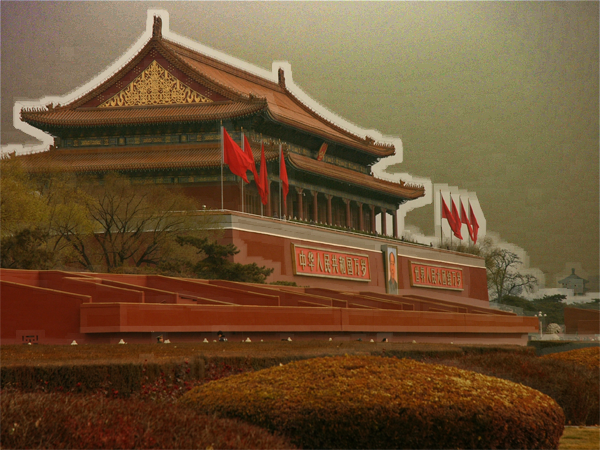
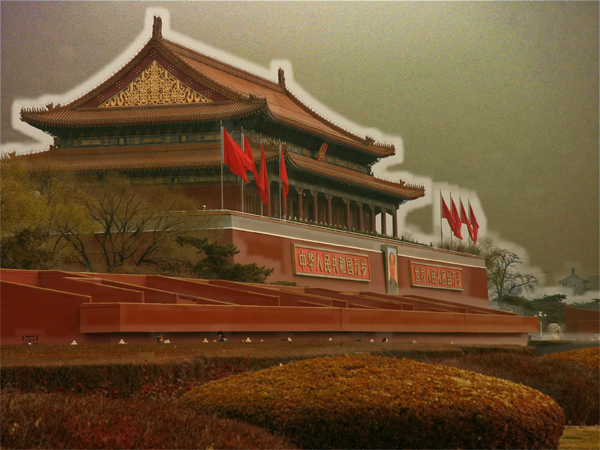
finish sequential transmission smoothing; halos still present

diff --git a/src/seq/main.c b/src/seq/main.c
@@ -6,8 +6,11 @@
 #define MIN(X, Y) (((X) < (Y)) ? (X) : (Y))
 #define MAX(X, Y) (((X) > (Y)) ? (X) : (Y))
 
-// patch for dark channel and transmission
-#define PATCH_SIZE 15
+// patch size for dark channel and transmission
+// higher patch size will improve dark channel accuracy but introduce depth artifacts
+#define DARK_CHANNEL_PATCH_SIZE 15
+// lower patch size will tighten constant transmission assumption but oversaturate colors
+#define TRANSMISSION_PATCH_SIZE 15
 
 // fraction of image size for haze-opaque region
 #define HAZE_OPAQUE_SIZE 0.001
@@ -15,8 +18,14 @@
 // will retain 5% of haze to preserve depth information in dehazed image
 #define HAZE_RETENTION 0.05
 
-// minimum transmission to reduce noise and preserve some haze
+// minimum transmission to reduce noise visibility
 #define MIN_TRANSMISSION 0.1
+
+// window size for transmission smoothing
+#define WINDOW_SIZE 3
+
+// lower threshold for pixel variance will increase edges in smooth transmission
+#define EDGE_VARIANCE 1
 
 // store rgba as floats for precise math
 typedef struct {
@@ -30,7 +39,6 @@ typedef struct {
 typedef struct {
     unsigned int height;
     unsigned int width;
-    // height * width pixels
     pixel_t *pixels;
 } image_t;
 
@@ -154,22 +162,22 @@ void write_image(image_t *image, char *filename) {
 }
 
 // returns the min value across the rgb channels for all pixels in the patch centered at (y, x)
-float find_patch_min(int y, int x, unsigned int height, unsigned int width, pixel_t *pixels) {
+float find_patch_min(int y, int x, image_t *image, int patch_size) {
     float min;
     unsigned int y_min, y_max, x_min, x_max;
     unsigned int i, j;
     pixel_t pixel;
 
-    y_min = MAX(0, y - PATCH_SIZE / 2);
-    x_min = MAX(0, x - PATCH_SIZE / 2);
-    y_max = MIN(height, y + PATCH_SIZE / 2);
-    x_max = MIN(width, x + PATCH_SIZE / 2);
+    y_min = MAX(0, y - patch_size / 2);
+    x_min = MAX(0, x - patch_size / 2);
+    y_max = MIN(image->height, y + patch_size / 2 + 1);
+    x_max = MIN(image->width, x + patch_size / 2 + 1);
 
     // min across patch
-    min = pixels[y_min * width + x_min].r;
+    min = image->pixels[y_min * image->width + x_min].r;
     for (i = y_min; i < y_max; i++) {
         for (j = x_min; j < x_max; j++) {
-            pixel = pixels[i * width + j];
+            pixel = image->pixels[i * image->width + j];
             min = MIN(min, MIN(pixel.r, MIN(pixel.g, pixel.b)));
         }
     }
@@ -179,7 +187,7 @@ float find_patch_min(int y, int x, unsigned int height, unsigned int width, pixe
 }
 
 // computes the pixels for the dark channel of the image
-pixel_t *compute_dark_channel(image_t *image) {
+pixel_t *compute_dark_channel(image_t *image, int patch_size) {
     float min;
     unsigned int i, j;
     pixel_t pixel;
@@ -192,7 +200,7 @@ pixel_t *compute_dark_channel(image_t *image) {
 
     for (i = 0; i < image->height; i++) {
         for(j = 0; j < image->width; j++) {
-            min = find_patch_min(i, j, image->height, image->width, image->pixels);
+            min = find_patch_min(i, j, image, patch_size);
 
             pixel.r = min;
             pixel.g = min;
@@ -305,7 +313,7 @@ void compute_atmospheric_light(pixel_t *atmos_light, image_t *image, pixel_t *da
 }
 
 // computes the pixels for the dark channel of the image normalized for atmospheric light
-pixel_t *compute_norm_dark_channel(image_t *image, pixel_t *atmos_light) {
+pixel_t *compute_norm_dark_channel(image_t *image, pixel_t *atmos_light, int patch_size) {
     unsigned int i;
     pixel_t pixel;
     pixel_t *norm_pixels;
@@ -328,7 +336,7 @@ pixel_t *compute_norm_dark_channel(image_t *image, pixel_t *atmos_light) {
     }
     norm_image = replace_pixels(image, norm_pixels);
 
-    norm_dark_channel = compute_dark_channel(norm_image);
+    norm_dark_channel = compute_dark_channel(norm_image, patch_size);
 
     free_image(norm_image);
 
@@ -342,7 +350,7 @@ pixel_t *compute_transmission(image_t *image, pixel_t *atmos_light) {
     pixel_t *norm_dark_channel;
     pixel_t *transmission;
 
-    norm_dark_channel = compute_norm_dark_channel(image, atmos_light);
+    norm_dark_channel = compute_norm_dark_channel(image, atmos_light, TRANSMISSION_PATCH_SIZE);
 
     transmission = calloc(image->height * image->width, sizeof(pixel_t));
     if (!transmission) {
@@ -365,21 +373,193 @@ pixel_t *compute_transmission(image_t *image, pixel_t *atmos_light) {
     return transmission;
 }
 
-// TODO unimplemented
-// computes soft matting and returns a copy of smoothened transmission
-pixel_t *compute_soft_matting(unsigned int height, unsigned int width, pixel_t *transmission) {
-    /* pixel_t *soft_matting; */
+// counts the number of pixels in the windoww
+unsigned int count_window_pixels(int y, int x, unsigned int height, unsigned int width, int window_size) {
+    unsigned int y_min, y_max, x_min, x_max;
 
-    /* soft_matting = calloc(height * width, sizeof(pixel_t)); */
-    /* if (!soft_matting) { */
-    /*     return NULL; */
-    /* } */
+    y_min = MAX(0, y - window_size / 2);
+    x_min = MAX(0, x - window_size / 2);
+    y_max = MIN(height, y + window_size / 2 + 1);
+    x_max = MIN(width, x + window_size / 2 + 1);
 
-    return transmission;
+    return (y_max - y_min) * (x_max - x_min);
+}
+
+// computes the mean for the rgb color channels across the pixels in the window
+void compute_window_mean(pixel_t *mean, int y, int x, pixel_t *pixels, unsigned int height, unsigned int width, int window_size) {
+    unsigned int y_min, y_max, x_min, x_max;
+    unsigned int i, j;
+    unsigned int num_pixels;
+    pixel_t pixel;
+
+    y_min = MAX(0, y - window_size / 2);
+    x_min = MAX(0, x - window_size / 2);
+    y_max = MIN(height, y + window_size / 2 + 1);
+    x_max = MIN(width, x + window_size / 2 + 1);
+
+    mean->r = 0;
+    mean->g = 0;
+    mean->b = 0;
+    for (i = y_min; i < y_max; i++) {
+        for (j = x_min; j < x_max; j++) {
+            pixel = pixels[i * width + j];
+
+            mean->r += pixel.r;
+            mean->g += pixel.g;
+            mean->b += pixel.b;
+            mean->a = pixel.a;
+        }
+    }
+
+    num_pixels = count_window_pixels(y, x, height, width, window_size);
+
+    mean->r /= num_pixels;
+    mean->g /= num_pixels;
+    mean->b /= num_pixels;
+}
+
+// computes the variance for the rgb color channels across the pixels in the window
+void compute_window_variance(pixel_t *mean, pixel_t *variance, int y, int x, pixel_t *pixels, unsigned int height, unsigned int width, int window_size) {
+    unsigned int y_min, y_max, x_min, x_max;
+    unsigned int i, j;
+    unsigned int num_pixels;
+    pixel_t pixel;
+
+    y_min = MAX(0, y - window_size / 2);
+    x_min = MAX(0, x - window_size / 2);
+    y_max = MIN(height, y + window_size / 2 + 1);
+    x_max = MIN(width, x + window_size / 2 + 1);
+
+    variance->r = 0;
+    variance->g = 0;
+    variance->b = 0;
+    for (i = y_min; i < y_max; i++) {
+        for (j = x_min; j < x_max; j++) {
+            pixel = pixels[i * width + j];
+
+            variance->r += (pixel.r - mean->r) * (pixel.r - mean->r);
+            variance->g += (pixel.g - mean->g) * (pixel.g - mean->g);
+            variance->b += (pixel.b - mean->b) * (pixel.b - mean->b);
+            variance->a = pixel.a;
+        }
+    }
+
+    num_pixels = count_window_pixels(y, x, height, width, window_size);
+
+    variance->r /= (num_pixels - 1);
+    variance->g /= (num_pixels - 1);
+    variance->b /= (num_pixels - 1);
+}
+
+// computes the dot product for a window across two sets of pixels
+void compute_window_dot_product(pixel_t *dot_product, int y, int x, pixel_t *pixels_X, pixel_t *pixels_Y, unsigned int height, unsigned int width, int window_size) {
+    unsigned int y_min, y_max, x_min, x_max;
+    unsigned int i, j;
+    pixel_t pixel_x, pixel_y;
+
+    y_min = MAX(0, y - window_size / 2);
+    x_min = MAX(0, x - window_size / 2);
+    y_max = MIN(height, y + window_size / 2 + 1);
+    x_max = MIN(width, x + window_size / 2 + 1);
+
+    dot_product->r = 0;
+    dot_product->g = 0;
+    dot_product->b = 0;
+    for (i = y_min; i < y_max; i++) {
+        for (j = x_min; j < x_max; j++) {
+            pixel_x = pixels_X[i * width + j];
+            pixel_y = pixels_Y[i * width + j];
+
+            dot_product->r += pixel_x.r * pixel_y.r;
+            dot_product->g += pixel_x.g * pixel_y.g;
+            dot_product->b += pixel_x.b * pixel_y.b;
+            dot_product->a = pixel_x.a;
+        }
+    }
+}
+
+// updates smooth transmission pixels in the window in place
+void update_smooth_transmission(int y, int x, pixel_t *smooth_transmission, pixel_t *a, pixel_t *b, image_t *image, int window_size) {
+    unsigned int y_min, y_max, x_min, x_max;
+    unsigned int i, j;
+    pixel_t pixel_image, pixel_transmission;
+
+    y_min = MAX(0, y - window_size / 2);
+    x_min = MAX(0, x - window_size / 2);
+    y_max = MIN(image->height, y + window_size / 2 + 1);
+    x_max = MIN(image->width, x + window_size / 2 + 1);
+
+    for (i = y_min; i < y_max; i++) {
+        for (j = x_min; j < x_max; j++) {
+            pixel_transmission = smooth_transmission[i * image->width + j];
+            pixel_image = image->pixels[i * image->width + j];
+
+            pixel_transmission.r += a->r * pixel_image.r + b->r;
+            pixel_transmission.g += a->g * pixel_image.g + b->g;
+            pixel_transmission.b += a->b * pixel_image.b + b->b;
+            pixel_transmission.a = pixel_image.a;
+
+            smooth_transmission[i * image->width + j] = pixel_transmission;
+        }
+    }
+}
+
+// computes a smooth transmission by reducing blockiness and introducing edges from original image
+pixel_t *compute_smooth_transmission(image_t *image, pixel_t *transmission, int window_size) {
+    unsigned int i, j;
+    unsigned int num_pixels;
+    pixel_t a, b;
+    pixel_t image_mean, transmission_mean, image_variance, dot_product;
+    pixel_t pixel;
+    pixel_t *smooth_transmission;
+
+    smooth_transmission = calloc(image->height * image->width, sizeof(pixel_t));
+    if (!smooth_transmission) {
+        return NULL;
+    }
+
+    // compute smooth transmission pixels in each window
+    for (i = 0; i < image->height; i++) {
+        for (j = 0; j < image->width; j++) {
+            compute_window_mean(&image_mean, i, j, image->pixels, image->height, image->width, window_size);
+            compute_window_mean(&transmission_mean, i, j, transmission, image->height, image->width, window_size);
+            compute_window_variance(&image_mean, &image_variance, i, j, image->pixels, image->height, image->width, window_size);
+            compute_window_dot_product(&dot_product, i, j, image->pixels, transmission, image->height, image->width, window_size);
+            num_pixels = count_window_pixels(i, j, image->height, image->width, window_size);
+
+            // compute a
+            a.r = ((dot_product.r / num_pixels) - (image_mean.r * transmission_mean.r)) / (image_variance.r + EDGE_VARIANCE);
+            a.g = ((dot_product.g / num_pixels) - (image_mean.g * transmission_mean.g)) / (image_variance.g + EDGE_VARIANCE);
+            a.b = ((dot_product.b / num_pixels) - (image_mean.b * transmission_mean.b)) / (image_variance.b + EDGE_VARIANCE);
+
+            // compute b
+            b.r = transmission_mean.r - a.r * image_mean.r;
+            b.g = transmission_mean.g - a.g * image_mean.g;
+            b.b = transmission_mean.b - a.b * image_mean.b;
+
+            update_smooth_transmission(i, j, smooth_transmission, &a, &b, image, window_size);
+        }
+    }
+
+    // normalize smooth transmission pixels
+    for (i = 0; i < image->height; i++) {
+        for (j = 0; j < image->width; j++) {
+            pixel = smooth_transmission[i * image->width + j];
+            num_pixels = count_window_pixels(i, j, image->height, image->width, window_size);
+
+            pixel.r /= num_pixels;
+            pixel.g /= num_pixels;
+            pixel.b /= num_pixels;
+
+            smooth_transmission[i * image->width + j] = pixel;
+        }
+    }
+
+    return smooth_transmission;
 }
 
 // computes scene radiance from original hazy image
-pixel_t *compute_scene_radiance(image_t *image, pixel_t *atmos_light, pixel_t *soft_matting) {
+pixel_t *compute_scene_radiance(image_t *image, pixel_t *atmos_light, pixel_t *transmission) {
     unsigned int i;
     pixel_t pixel;
     pixel_t *scene_radiance;
@@ -393,9 +573,9 @@ pixel_t *compute_scene_radiance(image_t *image, pixel_t *atmos_light, pixel_t *s
     for (i = 0; i < image->height * image->width; i++) {
         pixel = image->pixels[i];
 
-        scene_radiance[i].r = (pixel.r - atmos_light->r) / MAX(soft_matting[i].r, MIN_TRANSMISSION) + atmos_light->r;
-        scene_radiance[i].g = (pixel.g - atmos_light->g) / MAX(soft_matting[i].g, MIN_TRANSMISSION) + atmos_light->g;
-        scene_radiance[i].b = (pixel.b - atmos_light->b) / MAX(soft_matting[i].b, MIN_TRANSMISSION) + atmos_light->b;
+        scene_radiance[i].r = (pixel.r - atmos_light->r) / MAX(transmission[i].r, MIN_TRANSMISSION) + atmos_light->r;
+        scene_radiance[i].g = (pixel.g - atmos_light->g) / MAX(transmission[i].g, MIN_TRANSMISSION) + atmos_light->g;
+        scene_radiance[i].b = (pixel.b - atmos_light->b) / MAX(transmission[i].b, MIN_TRANSMISSION) + atmos_light->b;
         scene_radiance[i].a = pixel.a;
     }
 
@@ -407,11 +587,11 @@ image_t *remove_haze(image_t *image) {
     pixel_t atmos_light;
     pixel_t *dark_channel;
     pixel_t *transmission;
-    pixel_t *soft_matting;
+    pixel_t *smooth_transmission;
     pixel_t *scene_radiance;
     image_t *dehazed_image;
 
-    dark_channel = compute_dark_channel(image);
+    dark_channel = compute_dark_channel(image, DARK_CHANNEL_PATCH_SIZE);
     if (!dark_channel) {
         fprintf(stderr, "Error computing dark channel\n");
         return NULL;
@@ -432,25 +612,26 @@ image_t *remove_haze(image_t *image) {
         return NULL;
     }
 
-    soft_matting = compute_soft_matting(image->height, image->width, transmission);
-    if (!soft_matting) {
-        fprintf(stderr, "Error computing soft matting\n");
+    smooth_transmission = compute_smooth_transmission(image, transmission, WINDOW_SIZE);
+    if (!smooth_transmission) {
+        fprintf(stderr, "Error computing smooth transmission\n");
         free(dark_channel);
         free(transmission);
         return NULL;
     }
 
-    scene_radiance = compute_scene_radiance(image, &atmos_light, soft_matting);
+    scene_radiance = compute_scene_radiance(image, &atmos_light, smooth_transmission);
 
     dehazed_image = replace_pixels(image, scene_radiance);
 
     free(dark_channel);
-    /* free(transmission); */
-    free(soft_matting);
+    free(transmission);
+    free(smooth_transmission);
 
     return dehazed_image;
 }
 
+// reads image, removes haze, writes resultant image
 int main(int argc, char **argv) {
     int opt;
     char *input;
